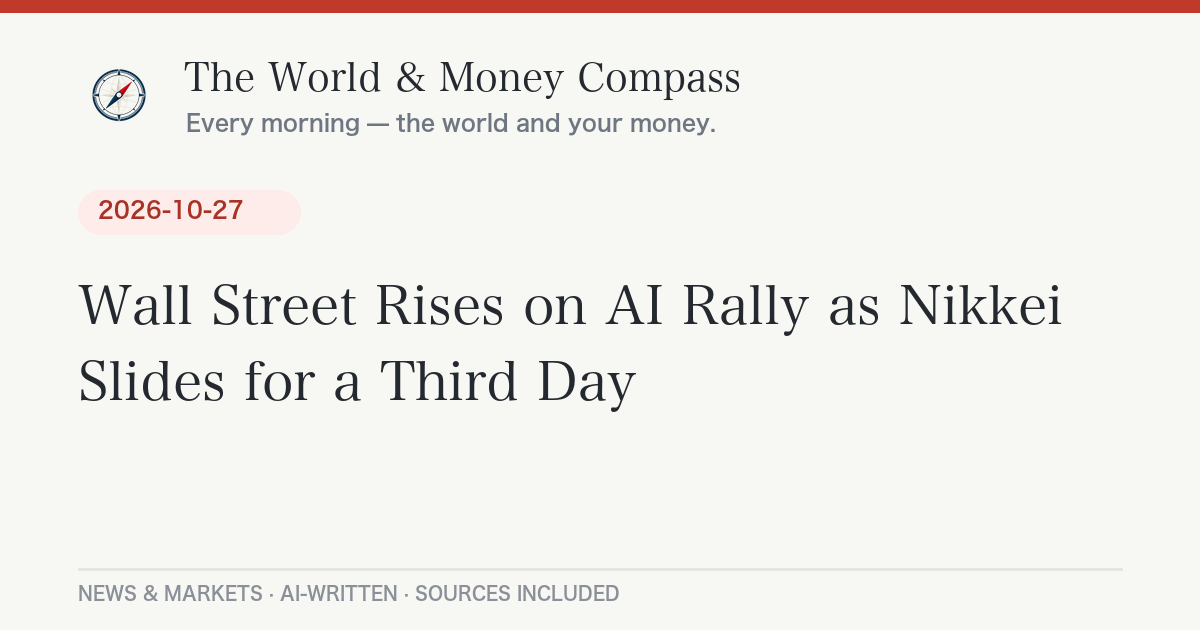
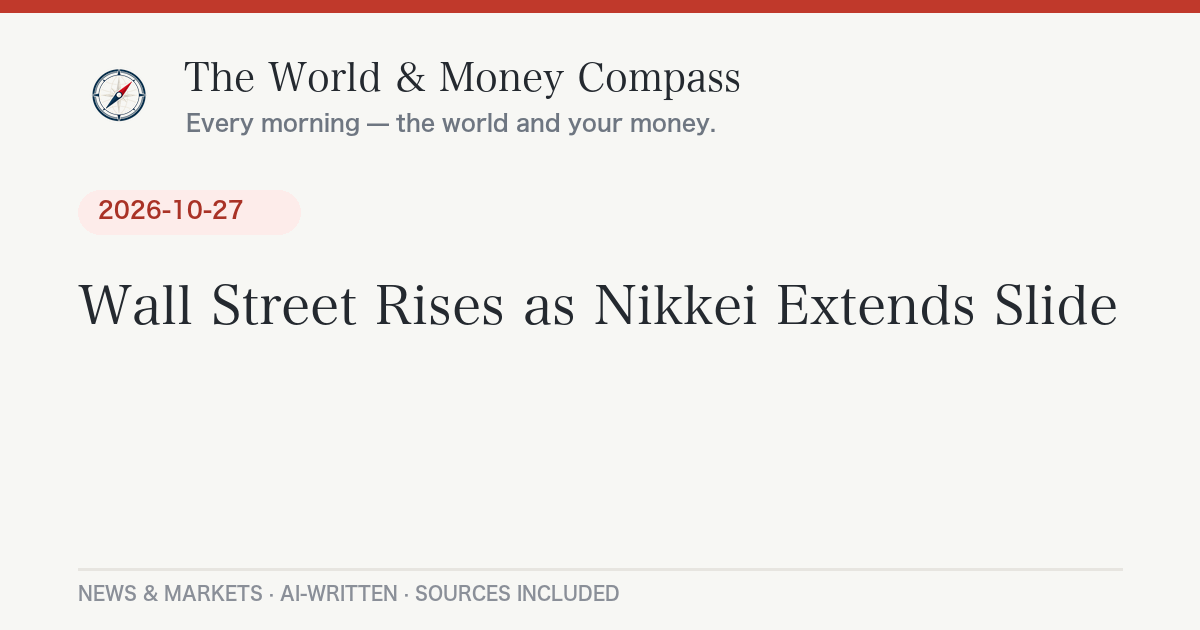
Daily briefing 2026-10-29

Changed region(s): [[0.4317, 0.4524, 0.925, 0.5429], [0.0617, 0.573, 0.5242, 0.6635]]

diff --git a/_posts/2026-10-29-daily-briefing.md b/_posts/2026-10-29-daily-briefing.md
@@ -1,0 +1,103 @@
+---
+layout: post
+lang: ja
+title: "FRBは据え置き、2人が利上げ主張。スペイン高速列車事故は死者68人｜10月29日のニュースとお金"
+date: 2026-10-29 07:37:07 +0900
+categories: [ニュース, 経済]
+headline: "FRBは据え置き、2人が利上げ主張。スペイン高速列車事故は死者68人"
+permalink: /2026/10/29/daily-briefing/
+---
+
+## 今日のポイント
+
+米連邦準備制度理事会（FRB）は28日、政策金利を据え置きました。ただし理事会の投票権を持つ12人のうち2人は「0.25％の利上げ」を求めて反対しており、「次は利下げ」ではなく「次は利上げか」という空気が強まっています。一方、日経平均株価は6万4,000円に迫る水準で引け、原油は1バレル100ドル前後の高止まりが続いています。物価と金利、そしてエネルギー価格が、きょうも世界のお金の流れを決めています。
+
+## 今日の羅針盤（Compass Insight）
+
+きょうの本質は「物価の粘り強さ」です。FRBは動かなかったものの、反対票が利上げ側に出たことで、市場は「据え置き＝緩和的」とは受け取りにくくなりました。原油が100ドル前後で居座るかぎり、ガソリンや電気・ガス、食品の値上がりは家計に響き続けます。
+
+家計への影響で見ると、米国の金利が高止まりすれば日米の金利差は縮まりにくく、1ドル158円前後の円安も続きやすくなります。円安は輸入に頼る食品・燃料のコストを押し上げます。きょうから日銀の金融政策決定会合（29〜30日の予定）も始まっており、住宅ローン（変動型）や預金金利に関わる判断として注目です。
+
+短期では、日銀会合の結果と、時間外で大きく動いた米IT大手（アルファベットの下落、マイクロソフトの上昇）が東京市場にどう波及するかに注目です。中長期では、「FRBが利上げに転じるか」「原油が下がるか」の2点が、株・為替・住宅ローン金利の方向を左右する可能性があります。
+
+## 今日のニュース
+
+### 日本
+- 28日午後、千葉県で[震度5弱の地震](https://news.yahoo.co.jp/pickup/6600489)があり、津波の心配はないとされました。
+- 日独首脳会談で、経済安全保障をめぐる[共同宣言](https://news.yahoo.co.jp/pickup/6600479)が出されました。
+- 日米の防衛相が、中国を念頭に[抑止力強化で協力することで一致](https://news.yahoo.co.jp/pickup/6600438)しました。
+- 衆院の比例定数を31減らす案で、[自民と維新が合意](https://news.yahoo.co.jp/pickup/6600428)しました。
+- 菓子「千鳥饅頭」で知られる千鳥屋本家が[破産へ](https://news.yahoo.co.jp/pickup/6600474)向かうと報じられました。
+- 29日朝は各地で[今季一番の冷え込み](https://news.yahoo.co.jp/pickup/6600461)になる見込みです。
+
+### 世界
+- スペイン中部トレド県で高速列車どうしが衝突し、死者は[少なくとも68人](https://www.bbc.co.uk/news/articles/c6p3g84kjqjlo)になりました。走行中の列車と、前方で停止していた列車が衝突したもので、BBCは「原因不明の誤り（inexplicable error）」によるものと伝えています。
+- イスラエル総選挙は、開票85％の時点で[ネタニヤフ首相のリクードと同盟勢力が120議席中53議席](https://www.bbc.co.uk/news/articles/cmdx3knq1xexo)にとどまり、過半数に届かない情勢です。連立協議は難航する見通しで、[再選挙の可能性](https://www.bbc.co.uk/news/articles/cm62y46d97wwo)も指摘されています。
+- ブラジル大統領選で敗れたフラビオ・ボルソナーロ氏が米マイアミに到着し、[国外逃亡ではないと主張](https://www.bbc.co.uk/news/articles/c6kglwe4lxwzo)しました。
+
+### アメリカ
+- FRBは[金利据え置き](https://www.cnbc.com/2026/10/28/fed-interest-rate-decision-october-2026.html)を決めました。投票権を持つ12人のうち2人が、0.25％の利上げを求めて反対しました。
+- ベッセント財務長官は、FRBが再び利上げしても[「必ずしも誤りではない」](https://www.cnbc.com/2026/10/28/scott-bessent-interview.html)と述べました。
+- 選挙資金の届け出システム（FEC）が、中間選挙の数日前に[ハッカー攻撃とみられる障害でオフライン](https://www.cnbc.com/2026/10/28/fec-hack-outage-campaign-finance-filings.html)になりました。
+
+### ヨーロッパ
+- 英国のヒーリー財務相が就任後初の予算案を発表しました。[エネルギー料金への100ポンドの支援と銀行への課税](https://www.bbc.co.uk/news/articles/cqpvgxz3y49go)が柱です。
+- ウクライナ南部ヘルソン州で、停戦が[延長されました](https://www.bbc.co.uk/news/articles/c6lye1w9p2l8o)。
+- ノルウェーとフィンランドの首脳がプーチン大統領と[異例の電話会談](https://www.bbc.co.uk/news/articles/c6vgj813mlelo)を行いました。
+
+## 経済とお金の動き
+
+### 世界の経済と相場
+
+| 指標 | 水準 | 前日比 |
+|---|---|---|
+| 日経平均株価（28日終値） | 63,954.19円 | <span class="chg-up">+685.82円（+1.08%）</span> |
+| NYダウ（28日終値） | 52,475.10ドル | <span class="chg-up">+97.53ドル（+0.19%）</span> |
+| S&P500（28日終値） | 7,743.98 | <span class="chg-up">+21.37（+0.28%）</span> |
+| ナスダック総合（28日終値） | 26,549.85 | <span class="chg-up">+72.04（+0.27%）</span> |
+| WTI原油（先物） | 約101.9ドル/バレル | <span class="chg-up">+約2.0ドル（前日は約99.9ドル）</span> |
+| ドル円（欧州中銀基準・28日） | 157.96円 | 前日比は未確認 |
+
+*出典：Yahoo Finance、[frankfurter API](https://api.frankfurter.app/latest?from=USD&to=JPY)（為替の基準日は28日）。原油は日中の先物価格で、確定した清算値とは異なる場合があります。*
+
+日米の株価はそろって上昇しました。日経平均は6万4,000円に迫り、米国株も小幅高です。一方、原油は100ドル前後と高い水準が続いており、世界的な物価の重しになっています。
+
+### アメリカの経済
+
+FRBは据え置きを決めましたが、12人の投票権者のうち2人が利上げを主張して反対しました。9月の消費者物価は前年比[3.7％上昇](https://www.cnbc.com/2026/10/14/cpi-inflation-report-september-2026.html)、卸売物価は[6.3％上昇](https://www.cnbc.com/2026/10/15/september-producer-price-index-retail-sales-data.html)と、物価の勢いは強いままです。市場の関心は「いつ利下げか」ではなく「利上げがあるか」に移っています。
+
+### 日本の経済
+
+円相場は1ドル=158円前後で推移しています（[frankfurter API](https://api.frankfurter.app/latest?from=USD&to=JPY)）。日銀の金融政策決定会合は[10月29〜30日の予定](https://www.oanda.jp/lab-education/beginners/fundamentals_analysis/boj_schedule/)で、利上げの有無が焦点です。物価高の影響は身近にも出ており、昆布やかつお節の[高騰に飲食店が悲鳴](https://news.yahoo.co.jp/pickup/6600385)をあげていると報じられています。
+
+## 今日の注目銘柄・セクター
+
+- **アルファベット（グーグル親会社）**：7〜9月期決算が[4年近くで初めて、利益・売上高とも市場予想を下回りました](https://www.cnbc.com/2026/10/28/alphabet-googl-earnings-q3-2026.html)。2026年の設備投資計画は据え置きつつ、2027年は大幅に増やす見通しを示し、時間外取引で株価が約10％下落しました。AI投資の負担への警戒が材料です。
+- **マイクロソフト**：クラウド事業「Azure」の売上高が[48％増](https://www.cnbc.com/2026/10/28/microsoft-msft-q1-earnings-report-2027.html)となるなど決算が予想を上回り、時間外で株価が約4％上昇しました。同じAI関連でも、明暗が分かれました。
+- **オラクル**：2030年度の売上高が[2,250億ドル](https://www.cnbc.com/2026/10/28/oracle-forecast-growth-2030.html)になるとの長期見通しと、追加の資金調達を抑える方針を示し、株価が約11％上昇しました。
+- **ステランティス（自動車）**：[立て直し計画とコスト削減が進んでいる](https://www.cnbc.com/2026/10/28/stellantis-45-billion-cash-drain-turnaround.html)として、株価が約13％上昇しました。
+
+*※特定銘柄の売買を推奨するものではありません。投資判断はご自身の責任で。*
+
+## まとめ：注目の3つ
+
+1. **FRBは据え置きでも「利上げ」が視野に**：反対2票がすべて利上げ側。物価の粘り強さが続いています。
+2. **日銀会合（29〜30日）**：結果次第で円相場と住宅ローン金利の見方が変わる可能性があります。
+3. **AI関連決算の二極化**：アルファベットは下落、マイクロソフトやオラクルは上昇。投資の「質」が問われ始めています。
+
+---
+<div class="post-sources" markdown="1">
+
+**出典：**
+- [BBC News：スペイン高速列車事故](https://www.bbc.co.uk/news/articles/c6p3g84kjqjlo)
+- [BBC News：イスラエル総選挙の途中経過](https://www.bbc.co.uk/news/articles/cmdx3knq1xexo)
+- [BBC News：英国予算案](https://www.bbc.co.uk/news/articles/cqpvgxz3y49go)
+- [CNBC：FRB、金利据え置き](https://www.cnbc.com/2026/10/28/fed-interest-rate-decision-october-2026.html)
+- [CNBC：アルファベット決算](https://www.cnbc.com/2026/10/28/alphabet-googl-earnings-q3-2026.html)
+- [CNBC：マイクロソフト決算](https://www.cnbc.com/2026/10/28/microsoft-msft-q1-earnings-report-2027.html)
+- [Yahoo!ニュース：千葉県で震度5弱](https://news.yahoo.co.jp/pickup/6600489)
+- 市場データ: [frankfurter API](https://api.frankfurter.app/) ／ Yahoo Finance
+
+*本記事は公開情報をもとに作成しています。*
+
+</div>

diff --git a/_posts/2026-10-29-daily-briefing-en.md b/_posts/2026-10-29-daily-briefing-en.md
@@ -1,0 +1,59 @@
+---
+layout: post
+lang: en
+title: "Fed holds rates with two dissents favoring a hike — October 29, 2026"
+date: 2026-10-29 07:37:07 +0900
+headline: "Fed holds rates with two dissents favoring a hike"
+permalink: /2026/10/29/daily-briefing/
+---
+
+## Top U.S. Stories
+
+- The Federal Reserve [held interest rates steady](https://www.cnbc.com/2026/10/28/fed-interest-rate-decision-october-2026.html). Two of the 12 voting FOMC members dissented, both wanting a quarter-point hike.
+  *Why it matters:* A "hold" no longer reads as dovish. When the only dissents lean toward tightening, markets start asking when the next hike comes, not the next cut.
+- Treasury Secretary Scott Bessent said it would not necessarily be a mistake if the Fed [hikes again](https://www.cnbc.com/2026/10/28/scott-bessent-interview.html).
+  *Why it matters:* Even the administration is signaling it will tolerate higher rates, which lowers the odds of near-term relief for borrowers.
+- Alphabet [missed third-quarter expectations](https://www.cnbc.com/2026/10/28/alphabet-googl-earnings-q3-2026.html) on both earnings and revenue, its first double miss in nearly four years, and fell about 10% after hours. Microsoft [rose about 4%](https://www.cnbc.com/2026/10/28/microsoft-msft-q1-earnings-report-2027.html) after Azure revenue grew 48%.
+  *Why it matters:* AI spending is no longer rewarded across the board; investors are sorting winners from losers.
+- Oracle [jumped about 11%](https://www.cnbc.com/2026/10/28/oracle-forecast-growth-2030.html) after laying out a fiscal 2030 revenue forecast of $225 billion.
+- The FEC's campaign finance system went [offline days before the midterms](https://www.cnbc.com/2026/10/28/fec-hack-outage-campaign-finance-filings.html) after hackers reportedly targeted the site.
+
+## Compass Insight
+
+Today's thread is sticky inflation. The Fed stood still, but the dissents leaned hawkish, and September consumer prices were [up 3.7% from a year earlier](https://www.cnbc.com/2026/10/14/cpi-inflation-report-september-2026.html). With oil near $100 a barrel, fuel and food costs keep pressing on households. Short term, watch the Bank of Japan meeting and how the big-tech earnings reaction carries into Asian trading. Over the medium term, two things decide the direction of stocks, the dollar and mortgage rates: whether the Fed turns to hikes, and whether oil eases. This is analysis, not advice.
+
+## Markets
+
+- Nikkei 225: 63,954.19 (+1.08%) at the Tokyo close on Oct. 28
+- Dow: 52,475.10 (+0.19%); S&P 500: 7,743.98 (+0.28%); Nasdaq: 26,549.85 (+0.27%)
+- WTI crude: about $101.9 a barrel intraday, up roughly $2 from the prior day
+- USD/JPY: 157.96 on the [ECB reference rate](https://api.frankfurter.app/latest?from=USD&to=JPY) for Oct. 28
+
+## Stocks in Focus
+
+- **Alphabet** (down ~10% after hours): a first double miss in nearly four years, with higher 2027 capex guided.
+- **Microsoft** (up ~4% after hours): cloud strength drove the beat.
+- **Stellantis** (up ~13%): [turnaround plan and cost cuts](https://www.cnbc.com/2026/10/28/stellantis-45-billion-cash-drain-turnaround.html) gaining traction.
+
+*This is not a recommendation to buy or sell any security.*
+
+## Also Making Headlines
+
+- A high-speed train crash in Spain's Toledo province has killed [at least 68 people](https://www.bbc.co.uk/news/articles/c6p3g84kjqjlo).
+- In Israel, with 85% of ballots counted, Netanyahu's bloc is on [53 of 120 seats](https://www.bbc.co.uk/news/articles/cmdx3knq1xexo), short of a majority.
+
+---
+<div class="post-sources" markdown="1">
+
+**Sources:**
+- [CNBC: Fed holds rates steady](https://www.cnbc.com/2026/10/28/fed-interest-rate-decision-october-2026.html)
+- [CNBC: Alphabet earnings](https://www.cnbc.com/2026/10/28/alphabet-googl-earnings-q3-2026.html)
+- [CNBC: Microsoft earnings](https://www.cnbc.com/2026/10/28/microsoft-msft-q1-earnings-report-2027.html)
+- [CNBC: September CPI](https://www.cnbc.com/2026/10/14/cpi-inflation-report-september-2026.html)
+- [BBC News: Spain train crash](https://www.bbc.co.uk/news/articles/c6p3g84kjqjlo)
+- [BBC News: Israel election](https://www.bbc.co.uk/news/articles/cmdx3knq1xexo)
+- Market data: [frankfurter API](https://api.frankfurter.app/) / Yahoo Finance
+
+</div>
+
+*Auto-generated and AI-written. Not investment advice.*
